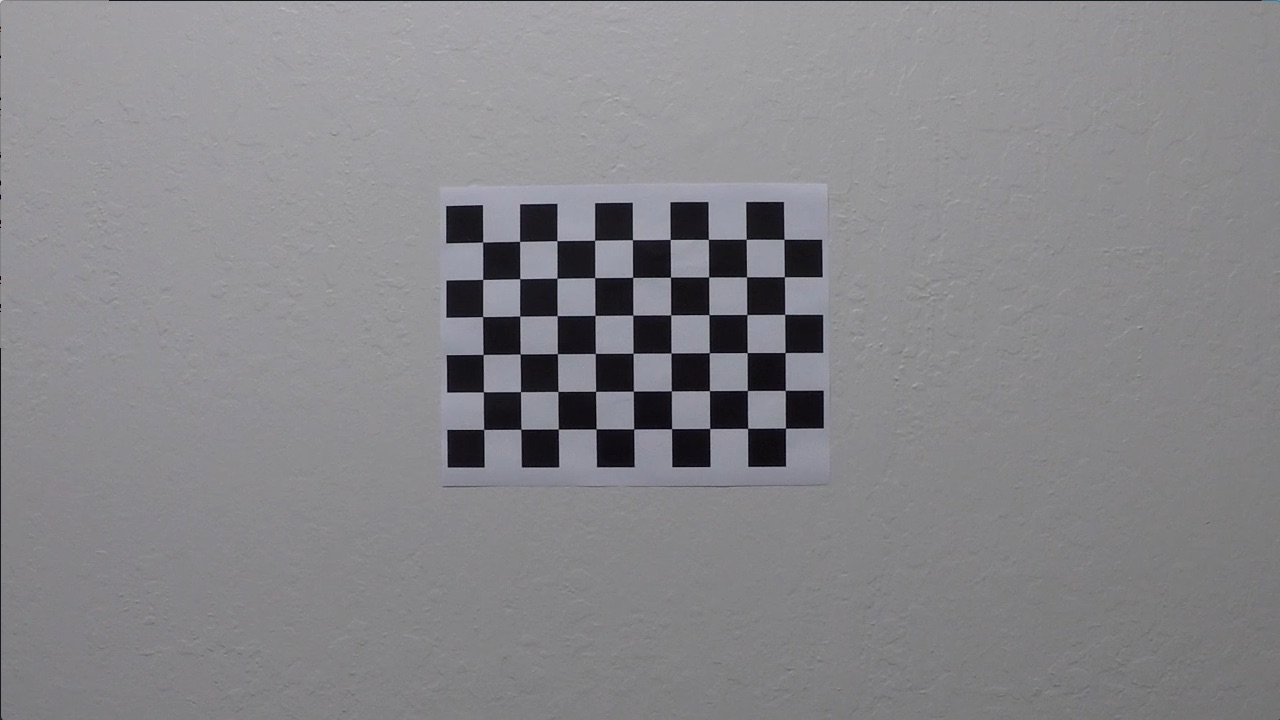
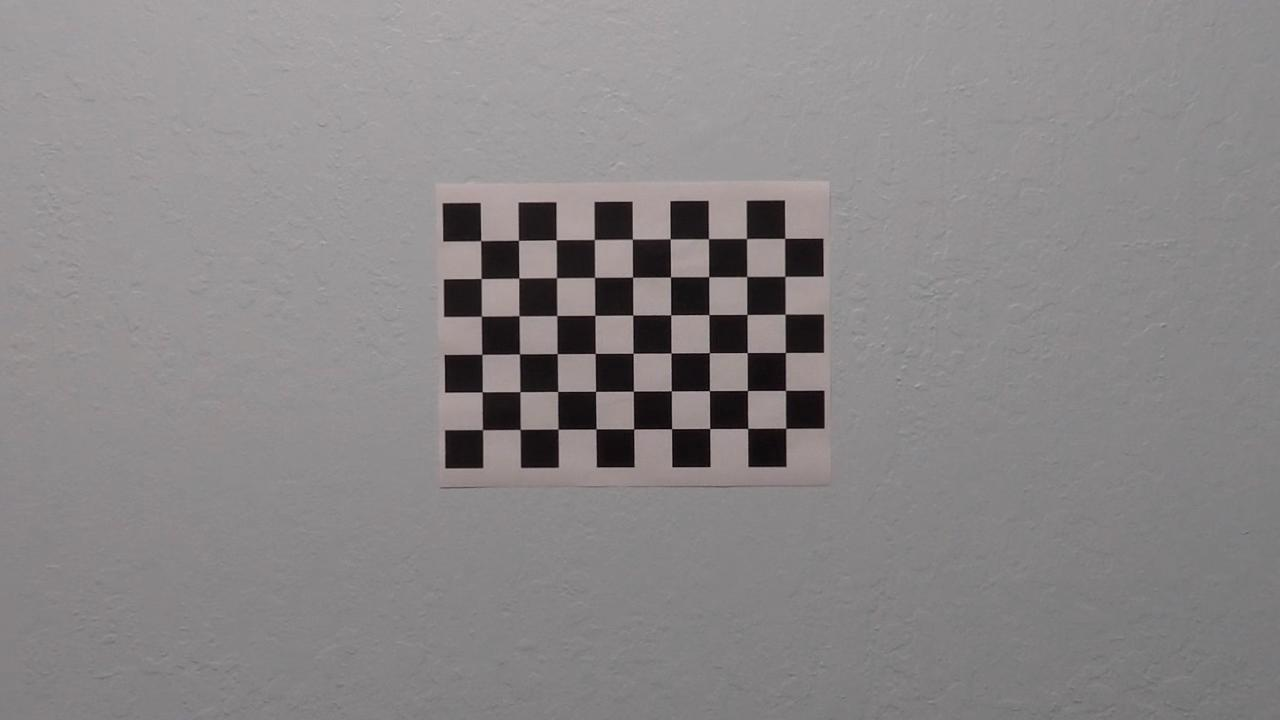
P02 camera calibration added

diff --git a/P02_AdvancedLaneLines/src/camera.py b/P02_AdvancedLaneLines/src/camera.py
@@ -2,13 +2,18 @@ import numpy as np
 import cv2
 import glob
 import matplotlib.pyplot as plt
+import os
 
 
 class Camera:
+
     def __init__(self, images_path, pattern_size, show_dbg=False):
+        matrix = None
+        distortion_coeffs = None
         self.calibrate(images_path, pattern_size, show_dbg)
 
     def calibrate(self, images_path, pattern_size, show_dbg=False):
+        print('calibrationg camera...', end=" ")
         # prepare object points, like (0,0,0), (1,0,0), (2,0,0) ....,(6,5,0)
         objp = np.zeros((6*9,3), np.float32)
         objp[:,:2] = np.mgrid[0:9,0:6].T.reshape(-1,2)
@@ -18,6 +23,9 @@ class Camera:
         imgpoints = [] # 2d points in image plane.
 
         images_paths = glob.glob(images_path)
+
+        # determine image size
+        imgshape = cv2.imread(images_paths[0]).shape
 
         # Step through the list and search for chessboard corners
         for fname in images_paths:
@@ -41,9 +49,34 @@ class Camera:
         if show_dbg:
             cv2.destroyAllWindows()
 
+        ret, mtx, dist, rvecs, tvecs = cv2.calibrateCamera(objpoints, imgpoints, (imgshape[1], imgshape[0]), None, None)
+        if ret:
+            self.matrix = mtx
+            self.distortion_coeffs = dist
+        else:
+            assert False, 'Calibration failed'
+
+        print('done.')
+        return ret, mtx, dist, rvecs, tvecs
 
 
-        return {'matrix':[], 'distorsion':[], 'rotations':[], 'transforms':[]}
+    def generate_test_images(self, images_path, output_dir):
+        """images_paths can contain * wildcard."""
+        print('generating test images...', end=" ")
+        if not os.path.exists(output_dir):
+            os.mkdir(output_dir)
+        images_paths = glob.glob(images_path)
+        for fname in images_paths:
+            src = cv2.imread(fname)
+            dst = self.undistort(src)
+            path = output_dir + os.path.basename(fname)
+            plt.imsave(path, dst)
+        print('done.')
 
 
-    #def undistort(self, image, )
+    def undistort(self, image):
+        try:
+            undistorted = cv2.undistort(image, self.matrix, self.distortion_coeffs)
+            return undistorted
+        except Exception as e:
+            print('undistortion error:', str(e))

diff --git a/P02_AdvancedLaneLines/src/main.py b/P02_AdvancedLaneLines/src/main.py
@@ -1,0 +1,15 @@
+from camera import Camera
+
+# config
+calibration_image_path = '../input/camera_cal/calibration*.jpg'
+calibration_test_target_dir = '../output/image_test_undistortion/'
+
+
+def main():
+    camera = Camera(calibration_image_path, pattern_size=(9, 6), show_dbg=False)
+    camera.generate_test_images(calibration_image_path, calibration_test_target_dir)
+
+
+
+if __name__ == '__main__':
+    main()

diff --git a/P02_AdvancedLaneLines/exercises/camera_calibration.py b/P02_AdvancedLaneLines/exercises/camera_calibration.py
@@ -6,7 +6,7 @@ import matplotlib.image as mpimg
 
 # Read in the saved camera matrix and distortion coefficients
 # These are the arrays you calculated using cv2.calibrateCamera()
-dist_pickle = pickle.load(open("../wide_dist_pickle.p", "rb"))
+dist_pickle = pickle.load(open("wide_dist_pickle.p", "rb"))
 mtx = dist_pickle["mtx"]
 dist = dist_pickle["dist"]
 print('mtx:', mtx)
